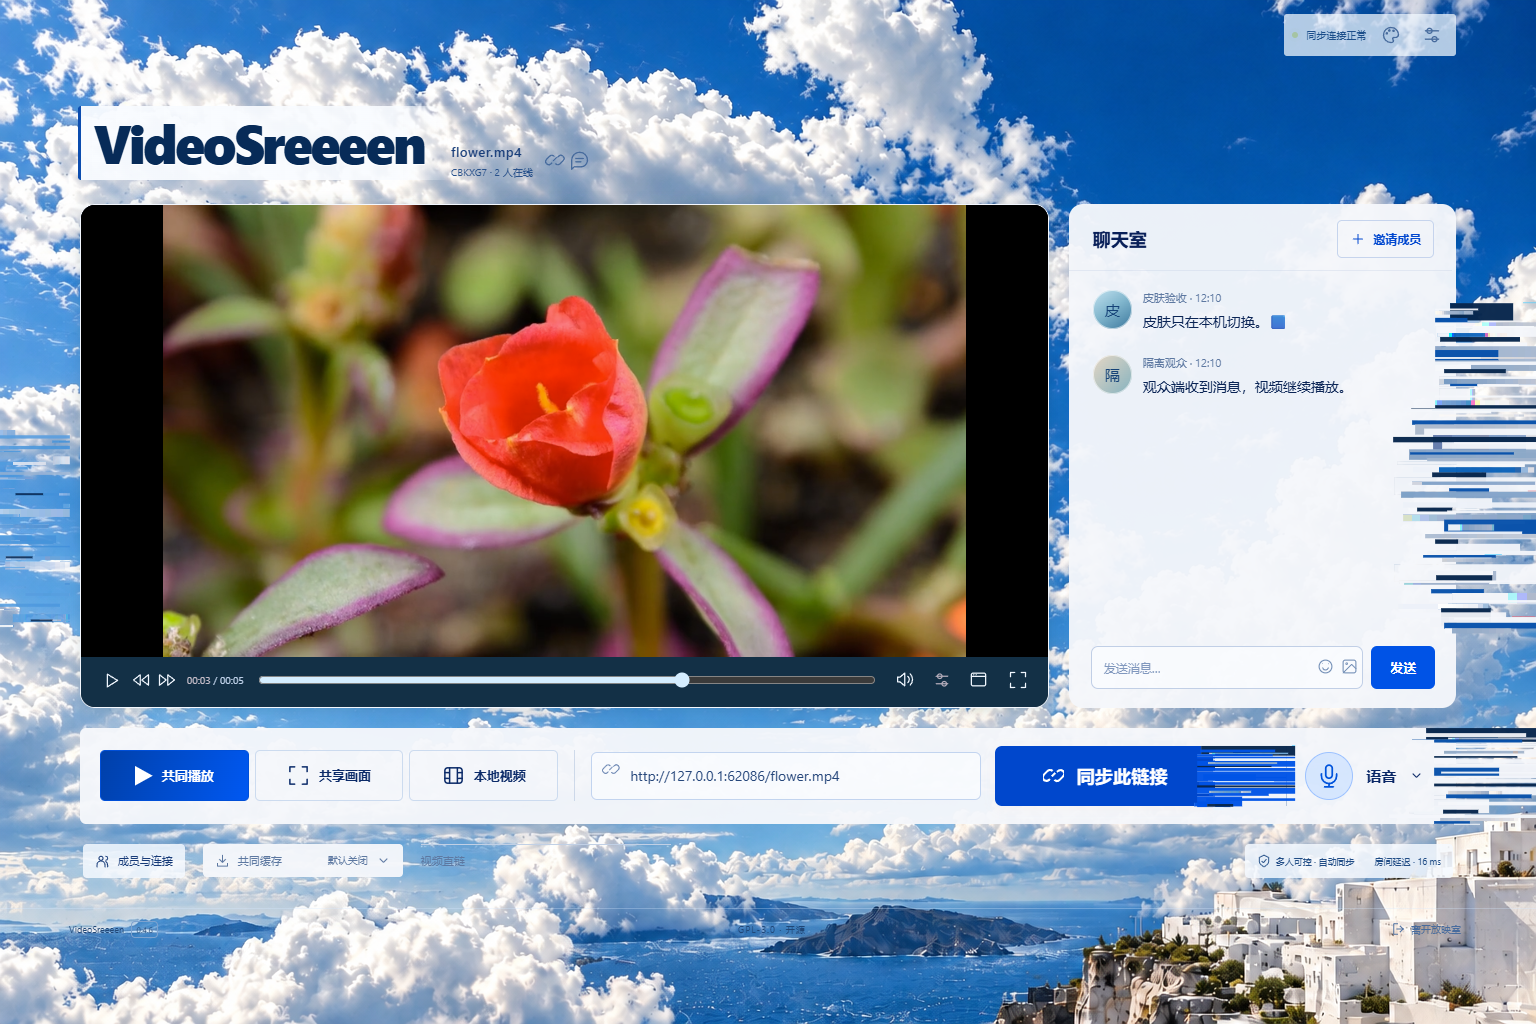
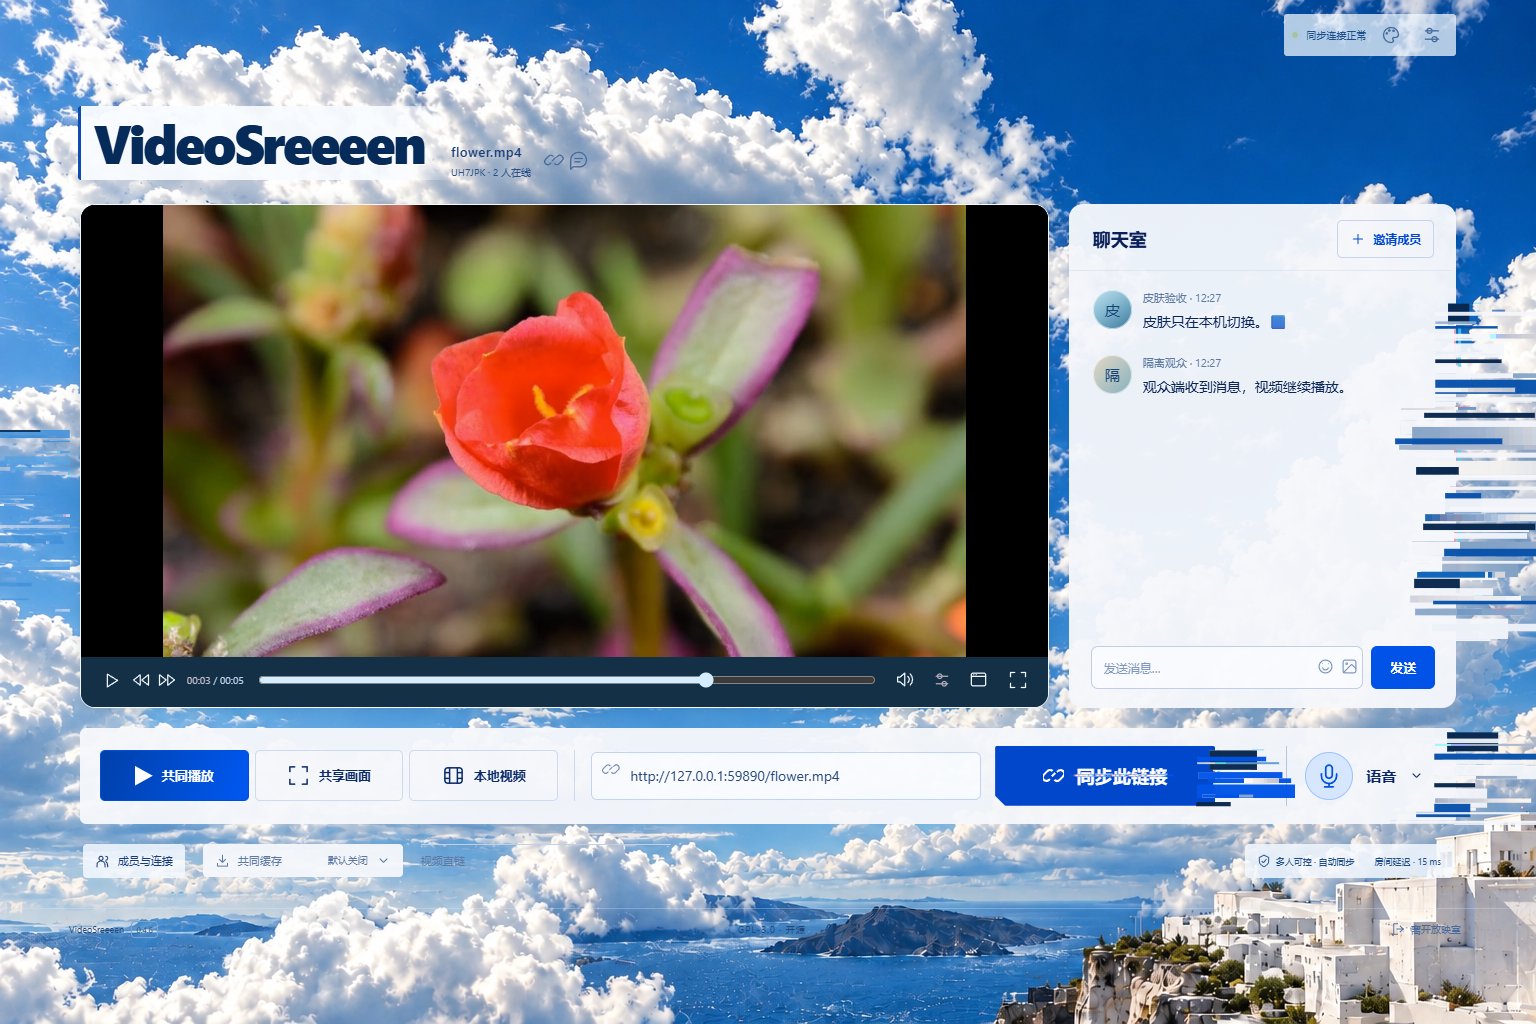
Polish glitch cadence and label slices from animated reference

diff --git a/client/appearance-fracture.ts b/client/appearance-fracture.ts
@@ -9,7 +9,13 @@ const hash = (n: number) => {
   const value = Math.sin(n * 91.713 + 17.1) * 43758.5453;
   return value - Math.floor(value);
 };
-const packet = (elapsed: number) => Math.floor(elapsed / 70);
+const beats = [0, 55, 135, 215, 275, 365, 435, 535, 625, 725];
+const packet = (elapsed: number) => {
+  let index = 0;
+  while (index + 1 < beats.length && elapsed >= beats[index + 1]!) index++;
+  return index;
+};
+const quiet = (beat: number) => beat === 3 || beat === 6 || beat === 9;
 const density = (elapsed: number) =>
   elapsed < 210 ? 1 : elapsed < 420 ? 0.84 : elapsed < 630 ? 0.53 : 0.24;
 
@@ -103,16 +109,28 @@ export function fractureEdge(
   const { box: r, compact, impact, blue, left = false, surface } = edge;
   const step = packet(burst.elapsed),
     seed = burst.seed;
+  if (quiet(step)) return;
   const activeHeight = Math.min(r.height, compact ? r.height : 330);
   const top =
     r.top + Math.max(0, Math.min(r.height - activeHeight, r.height * impact - activeHeight * 0.5));
   const anchor = left ? r.left : r.right;
   const inside = Math.min(compact ? 26 : 68, r.width * 0.16);
-  const reach = compact ? 118 : 178;
+  const reach = compact ? 88 : 178;
   const field = sortedField(sky, scale, burst, anchor - 70, top, 210, activeHeight, surface);
-  const rows = compact ? 22 : Math.min(68, Math.max(24, Math.round(activeHeight / 3.8)));
+  const rows = compact ? 8 : Math.min(42, Math.max(12, Math.round(activeHeight / 7.5)));
   ctx.save();
   ctx.imageSmoothingEnabled = false;
+  // A narrow misregistered silhouette precedes the broken packets, like the
+  // supplied button reference. It never translates the actual control or card.
+  for (let rim = 0; rim < 3; rim++) {
+    const ry = top + activeHeight * (0.08 + rim * 0.3);
+    const rh = Math.max(2, activeHeight * (compact ? 0.18 : 0.12));
+    ctx.globalAlpha = 0.76;
+    ctx.fillStyle = '#4bd8ef';
+    ctx.fillRect(anchor + (left ? -4 : 2), ry, 3, rh);
+    ctx.fillStyle = '#ed7599';
+    ctx.fillRect(anchor + (left ? 1 : -2), ry + 2, 2, rh * 0.7);
+  }
   for (let j = 0; j < rows; j++) {
     const n = seed + j * 19;
     // Drop whole packets as the burst expires; no shrinking or springing back.
@@ -122,9 +140,9 @@ export function fractureEdge(
     const y = top + ((j + hash(n + 70) * 0.65) / rows) * activeHeight;
     const h = Math.max(
       1,
-      (activeHeight / rows) * (j % 9 === 0 ? 3.6 : j % 5 === 0 ? 2.1 : 0.35 + hash(n + 2)),
+      (activeHeight / rows) * (j % 8 === 0 ? 2.6 : j % 5 === 0 ? 1.8 : 0.25 + hash(n + 2) * 0.8),
     );
-    const depth = Math.round(4 + hash(n + 3) * inside);
+    const depth = Math.round(4 + hash(n + 3) * Math.max(0, inside - 4));
     const length = Math.round(15 + hash(n + 8) ** 1.5 * reach + Math.floor(glitch * 5) * 9);
     const x = left ? anchor - length : anchor - depth;
     const width = length + depth;
@@ -198,6 +216,7 @@ export function fractureSky(
   if (burst.elapsed < 0 || burst.elapsed >= glitchLifetime) return;
   const step = packet(burst.elapsed),
     seed = burst.seed;
+  if (quiet(step)) return;
   const field = sortedField(sky, scale, burst, x - 110, y - 85, 220, 170);
   ctx.save();
   ctx.imageSmoothingEnabled = false;
@@ -227,6 +246,61 @@ export function fractureSky(
       ctx.fillStyle = '#092952';
       ctx.fillRect(px + offset, py, width * 0.35, 2);
     }
+  }
+  ctx.restore();
+}
+
+/** Repaint at most two thin strips of an app-owned button label, never chat text. */
+export function fractureLabel(
+  ctx: CanvasRenderingContext2D,
+  button: HTMLElement,
+  burst: GlitchBurst,
+  surface: string,
+) {
+  const beat = packet(burst.elapsed);
+  if (burst.elapsed >= glitchLifetime || quiet(beat) || beat === 0) return;
+  const walker = document.createTreeWalker(button, NodeFilter.SHOW_TEXT, {
+    acceptNode(node) {
+      const text = node.textContent?.trim() ?? '';
+      return text &&
+        text.length <= 40 &&
+        !node.parentElement?.closest('svg, small, [aria-hidden="true"]')
+        ? NodeFilter.FILTER_ACCEPT
+        : NodeFilter.FILTER_REJECT;
+    },
+  });
+  const node = walker.nextNode();
+  if (!node) return;
+  const text = node.textContent!.trim();
+  const offset = node.textContent!.indexOf(text);
+  const range = document.createRange();
+  range.setStart(node, offset);
+  range.setEnd(node, offset + text.length);
+  const rect = range.getBoundingClientRect();
+  if (!rect.width || !rect.height) return;
+  const style = getComputedStyle(node.parentElement!);
+  const fontSize = Number.parseFloat(style.fontSize);
+  const shift = (beat % 2 ? -1 : 1) * (2 + Math.floor(hash(burst.seed + beat) * 4));
+  ctx.save();
+  ctx.font = `${style.fontStyle} ${style.fontWeight} ${style.fontSize} ${style.fontFamily}`;
+  ctx.textBaseline = 'middle';
+  const bandHeight = Math.max(1, Math.min(2, fontSize * 0.1));
+  for (let strip = 0; strip < (beat === 2 || beat === 4 ? 2 : 1); strip++) {
+    const y = rect.top + rect.height * (strip ? 0.68 : 0.35 + (beat % 3) * 0.1);
+    ctx.save();
+    ctx.beginPath();
+    ctx.rect(rect.left - 6, y, rect.width + 12, bandHeight);
+    ctx.clip();
+    ctx.fillStyle = surface;
+    ctx.fillRect(rect.left - 6, y, rect.width + 12, bandHeight);
+    ctx.globalAlpha = 0.92;
+    ctx.fillStyle = '#43deef';
+    ctx.fillText(text, rect.left + shift + 2, rect.top + rect.height / 2);
+    ctx.fillStyle = '#ed7097';
+    ctx.fillText(text, rect.left + shift - 2, rect.top + rect.height / 2);
+    ctx.fillStyle = style.color;
+    ctx.fillText(text, rect.left + shift, rect.top + rect.height / 2);
+    ctx.restore();
   }
   ctx.restore();
 }

diff --git a/scripts/appearance-check.ts b/scripts/appearance-check.ts
@@ -450,6 +450,50 @@ try {
   await owner.locator('#source-form .button').hover();
   await owner.waitForTimeout(140);
   assert.notEqual(await signature('#theme-fragments'), buttonBefore);
+  const labelSlices = await owner.locator('#source-form .button').evaluate((button) => {
+    const walker = document.createTreeWalker(button, NodeFilter.SHOW_TEXT);
+    let node: Node | null;
+    while ((node = walker.nextNode())) {
+      if (!node.textContent?.trim() || node.parentElement?.closest('svg')) continue;
+      const text = node.textContent.trim();
+      const start = node.textContent.indexOf(text);
+      const range = document.createRange();
+      range.setStart(node, start);
+      range.setEnd(node, start + text.length);
+      const r = range.getBoundingClientRect();
+      const canvas = document.querySelector<HTMLCanvasElement>('#theme-fragments')!;
+      const scale = canvas.width / canvas.getBoundingClientRect().width;
+      const pixels = canvas
+        .getContext('2d')!
+        .getImageData(
+          Math.floor(r.left * scale),
+          Math.floor(r.top * scale),
+          Math.ceil(r.width * scale),
+          Math.ceil(r.height * scale),
+        );
+      const rows = new Set<number>();
+      let channels = 0;
+      for (let i = 0; i < pixels.data.length; i += 4) {
+        const data = pixels.data;
+        if (!data[i + 3]) continue;
+        rows.add(Math.floor(i / 4 / pixels.width));
+        if (
+          (data[i]! < 150 && data[i + 1]! > 140 && data[i + 2]! > 150) ||
+          (data[i]! > 150 && data[i + 1]! < 170 && data[i + 2]! > 90)
+        )
+          channels++;
+      }
+      return { text, changedRows: rows.size, height: pixels.height, channels };
+    }
+    return null;
+  });
+  assert.ok(labelSlices && labelSlices.channels > 2, JSON.stringify(labelSlices));
+  assert.ok(
+    labelSlices.changedRows > 0 && labelSlices.changedRows <= labelSlices.height * 0.35,
+    JSON.stringify(labelSlices),
+  );
+  assert.equal(await owner.locator('#source-form .button').innerText(), labelSlices.text);
+  proof.referenceLabelSlices = labelSlices;
   const afterimage = await signature('#theme-fragments');
   await owner.waitForTimeout(180);
   assert.notEqual(await signature('#theme-fragments'), afterimage);

diff --git a/client/appearance-scene.ts b/client/appearance-scene.ts
@@ -1,5 +1,5 @@
 import skyUrl from './assets/themes/daylight-sky.png';
-import { fractureEdge, fractureSky, glitchLifetime } from './appearance-fracture';
+import { fractureEdge, fractureLabel, fractureSky, glitchLifetime } from './appearance-fracture';
 
 type Wake = {
   x: number;
@@ -249,6 +249,7 @@ export class GlitchScene {
     this.hadMotion = this.wakes.length > 0;
     const ctx = this.context,
       ink = this.ink;
+    const labels: { node: HTMLElement; wake: Wake; surface: string }[] = [];
     ctx.setTransform(this.scale, 0, 0, this.scale, 0, 0);
     ctx.globalAlpha = 1;
     ctx.clearRect(0, 0, this.canvas.width / this.scale, this.canvas.height / this.scale);
@@ -280,6 +281,7 @@ export class GlitchScene {
           : cssSurface !== 'rgba(0, 0, 0, 0)'
             ? cssSurface
             : '#f5f7fb';
+      if (compact && !this.motion.matches) labels.push({ node, wake: candidates[0]!, surface });
       for (const wake of packets) {
         const edge = {
           box: r,
@@ -325,5 +327,10 @@ export class GlitchScene {
         Math.max(0, r.height - 6),
       );
     }
+    for (const { node, wake, surface } of labels)
+      fractureLabel(ink, node, { ...wake, elapsed: now - wake.at }, surface);
+    // Label slices are strictly decorative and obey the same protected areas.
+    for (const r of protectedRects)
+      ink.clearRect(r.left - 10, r.top - 10, r.width + 20, r.height + 20);
   }
 }

diff --git a/client/daylight.css b/client/daylight.css
@@ -483,8 +483,8 @@
   z-index: -1;
   pointer-events: none;
   background: linear-gradient(110deg, #0044bd, #0058f5);
-  border-radius: 7px;
-  clip-path: none;
+  border-radius: 2px;
+  clip-path: polygon(0 0, 100% 0, 100% 100%, 10px 100%, 0 calc(100% - 10px));
 }
 :root[data-theme='glitch'] #source-form .button:hover::before {
   background: #0047cc;

diff --git a/docs/appearance-daylight-a.md b/docs/appearance-daylight-a.md
@@ -16,14 +16,17 @@
 
 这两张均为实际浏览器截图。头像使用真实发送者昵称首字符；示例视频不是主题素材。实录保存在本机 `.local/daylight-motion.webm`。
 
+本次另逐帧检查了用户提供的按钮 WebP：29 帧、总长 2,890ms，文字和少量边缘横带突然错位，青红通道偏移之后有清晰的间歇。按这种节奏润色现有天空主题，没有照搬红黄配色，也没有将参考动图作为网站资产分发。此前知乎文章请求返回 403，本文不将未读到的文章内容作为实现依据。
+
 ## 动态规则
 
 - **故障只由本机指针触发。** 静止或动画结束时，两张装饰画布透明，没有冻结的云朵条块或固定损坏。鼠标扫过天空产生当前位置的照片行错位；扫过按钮或容器，故障从它的当前边缘产生。
 - **材质实时生成。** 每次交互只从本主题纯净天空与当前控件底色生成 96×48 小样本，按行、按不等长区间做实际亮度排序，再按组重排 / 重复源行、拉伸像素带。没有读取影片、第三方页面或聊天内容的像素，没有 DOM 截图，也不加载固定的 `daylight-fracture.png`。
-- **离散数据节拍。** 约 70ms 更新一个错位阶段，横片分组突然改变长度、行内容和偏移；深蓝缺损块、白色控件材质、现场照片行、少量脱落小块互相穿插。部分采样行用相邻像素的 R / B 分量错位，形成轻微色偏。它是 datamoshing 风格的 UI 表现，不处理影片编解码。
+- **离散数据节拍。** 使用约 55–100ms 的不等长阶段，故障之间留出清晰间歇；横片分组突然改变长度、行内容和偏移。按钮采用少量较厚切片，容器混合大块缺损与细尾迹，减少均匀细线。部分采样行用相邻像素的 R / B 分量错位，形成轻微色偏。它是 datamoshing 风格的 UI 表现，不处理影片编解码。
+- **按钮参考动效。** 同步按钮底色采用小切角，命中范围和标签不变。鼠标掠过时，轮廓产生窄幅青红重影；本应用按钮文字最多一到两条约 1–2px 横带短时错位，保持大部分字形连续。装饰只读取自有按钮标签并在现有 Canvas 上绘制，不复制交互节点，不处理聊天文字。
 - **无弹性回落。** 取消正弦伸缩和连续位移曲线；条块以不等厚度与不规则间隙出现，生命周期约 840ms，后半程分批丢弃并清空，不缩回原位置。一个容器最多保留两个经过的位置，背景最多保留八次交互，余迹各自到期，不把整片效果黏在当前鼠标上。
 - **轮廓可识别。** 卡片破损集中于侧边约 10%–20% 范围，主体内容保留；横向条块主要向外延伸。底栏按经过位置选择左 / 右边缘，按钮同时激活自己的边缘与所属底栏。拖拽时按实时边界重绘，旧位置清除。
-- **内容区保护。** 每帧清除影片、控制栏、输入框、聊天气泡 / 消息信息、语音入口与按钮文字区域的装饰。装饰没有命中区域，不移动实际控件，不提交房间操作。
+- **内容区保护。** 每帧清除影片、控制栏、输入框、聊天气泡 / 消息信息与语音入口的装饰。普通边缘碎片仍避开按钮中央，仅自有按钮文字有上述限高切片。装饰没有命中区域，不移动实际控件，不提交房间操作。
 - **减少动态效果时关闭故障。** 触屏保留干净界面；系统减少动态效果、强制颜色、隐藏页面与全屏都有相应停用 / 隐藏。退出全屏恢复背景，同一播放器和语音连接保持。
 
 ## 界面与资源
@@ -49,16 +52,17 @@ Edit this existing production photographic background. Preserve its exact photog
[1 lines of base64/hex data omitted]
 - `npm run test:appearance`：真实双端 MP4、实际房间 WebSocket、双向文字聊天、语音收听后换肤、拖拽、停靠、随机分配与偏好记忆。换肤保持同一 video，0 次 loadstart，没有暂停或房间操作。
 - 动态检查分别验证「静止透明」「扫过后实际像素变化」「经过容器后拖动仍绑定新边缘」「旧位置不残留」「到期恢复原透明画布」。不再将固定纹理移动视为合格。
+- 新增按钮标签实际像素检查：中央出现青红通道偏移，但受影响行数小于标签高度的 35%，DOM 标签不变；随后恢复透明。此上限用于防止整段文字被遮盖，实际数值另见回执。
 - 实时采样检查临时将隔离页面的天空替换为纯金色测试底图，实际碎片应出现同色像素，再恢复真实天空；同时确认没有旧断层图片网络请求。这是验证输入与输出关系的测试素材，不会加入产品或 README 截图。
 - 装饰在影片和输入区域逐点采样应全透明；减少动态效果无变化，强制颜色隐藏，退出网页全屏后照片与画布恢复。检查 2560×1440、800×1100、1.5 倍 visual viewport、390 / 320px 布局；不是手机真机结论。
 - `VS_TEST_SKIN=glitch npm run test:player-controls`：实际 MP4 / HLS、暂停、跳转、画面预览、精细定位、系统 / 网页全屏、约 1 秒闲置隐藏与窄屏操作。
 - 公网独立预览使用实际 WSS 与受控视频 fixture，不等于 B 站 / 稀饭全部线路的真机验收。
 
-参考：[Canvas drawImage](https://developer.mozilla.org/en-US/docs/Web/API/CanvasRenderingContext2D/drawImage)、[关闭图片平滑](https://developer.mozilla.org/en-US/docs/Web/API/CanvasRenderingContext2D/imageSmoothingEnabled)、[PixiJS GlitchFilter 原始着色器](https://github.com/pixijs/filters/blob/main/src/glitch/glitch.frag)。借鉴水平位移图、分通道采样的机制；本项目独立实现 Canvas 版本，没有复制着色器或引入其运行依赖。
+参考：[Canvas drawImage](https://developer.mozilla.org/en-US/docs/Web/API/CanvasRenderingContext2D/drawImage)、[关闭图片平滑](https://developer.mozilla.org/en-US/docs/Web/API/CanvasRenderingContext2D/imageSmoothingEnabled)、[文字切片绘制](https://developer.mozilla.org/en-US/docs/Web/API/CanvasRenderingContext2D/fillText)、[背景轮廓裁切](https://developer.mozilla.org/en-US/docs/Web/CSS/Reference/Properties/clip-path)、[PixiJS GlitchFilter 原始着色器](https://github.com/pixijs/filters/blob/main/src/glitch/glitch.frag)。借鉴水平位移图、分通道采样的机制；本项目独立实现 Canvas 版本，没有复制着色器或引入其运行依赖。
 
 本机证据：`.local/appearance-evidence.json`、`.local/appearance-public-evidence.json`、`.local/daylight-motion.webm`、`.local/daylight-scroll-evidence.json`、`.local/daylight-public-assets.json`。
 
-## 部署回执
+## 前次部署回执（按钮参考润色前）
 
 前一预览 `fa95d7c0`、源码 `26e5391` 使用固定照片条块，是这轮用户反馈的基线。
 
